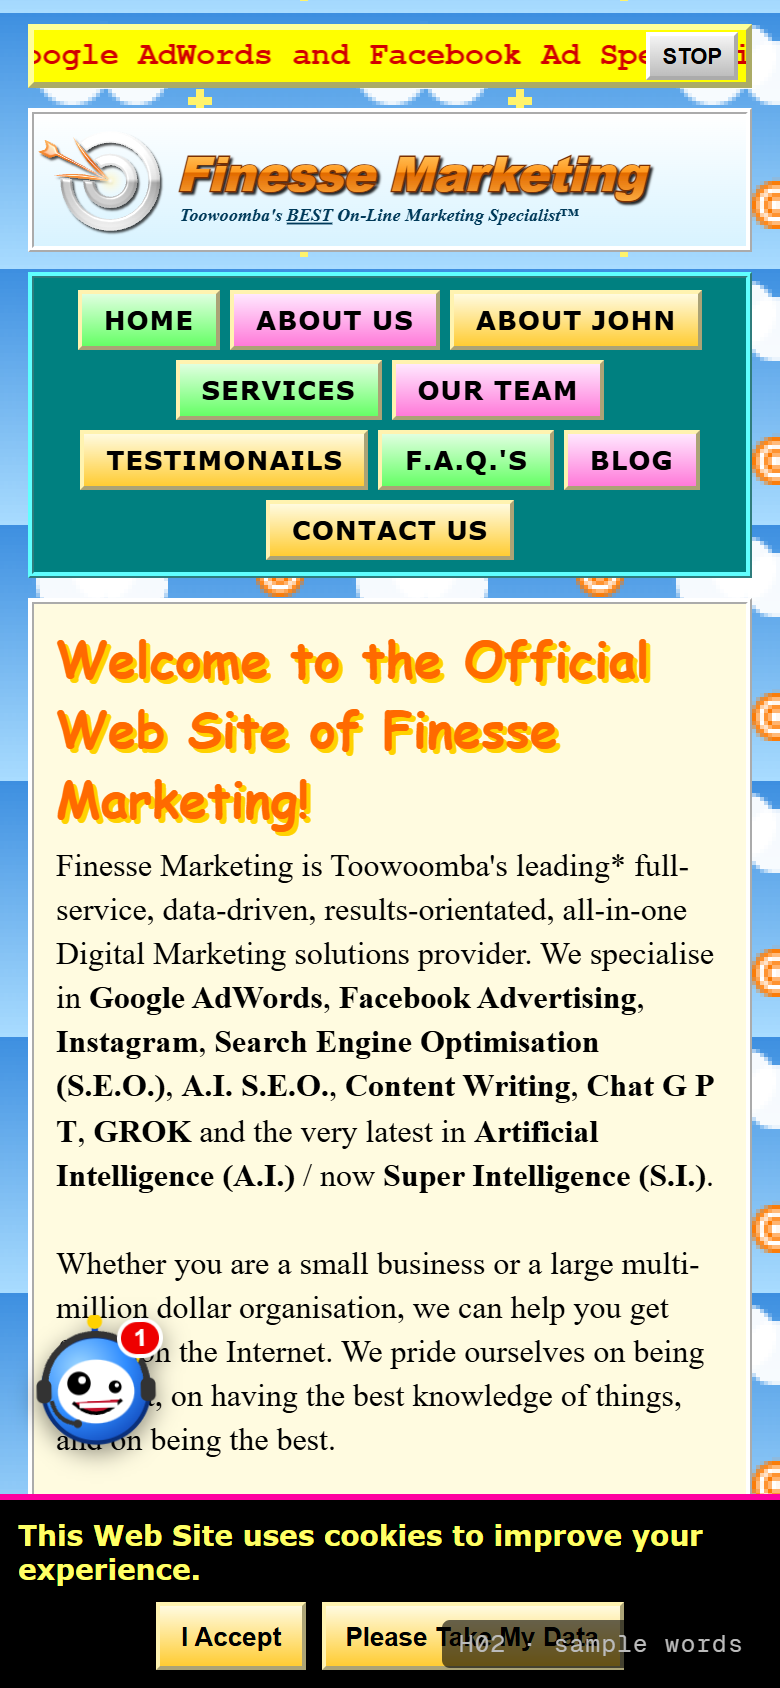
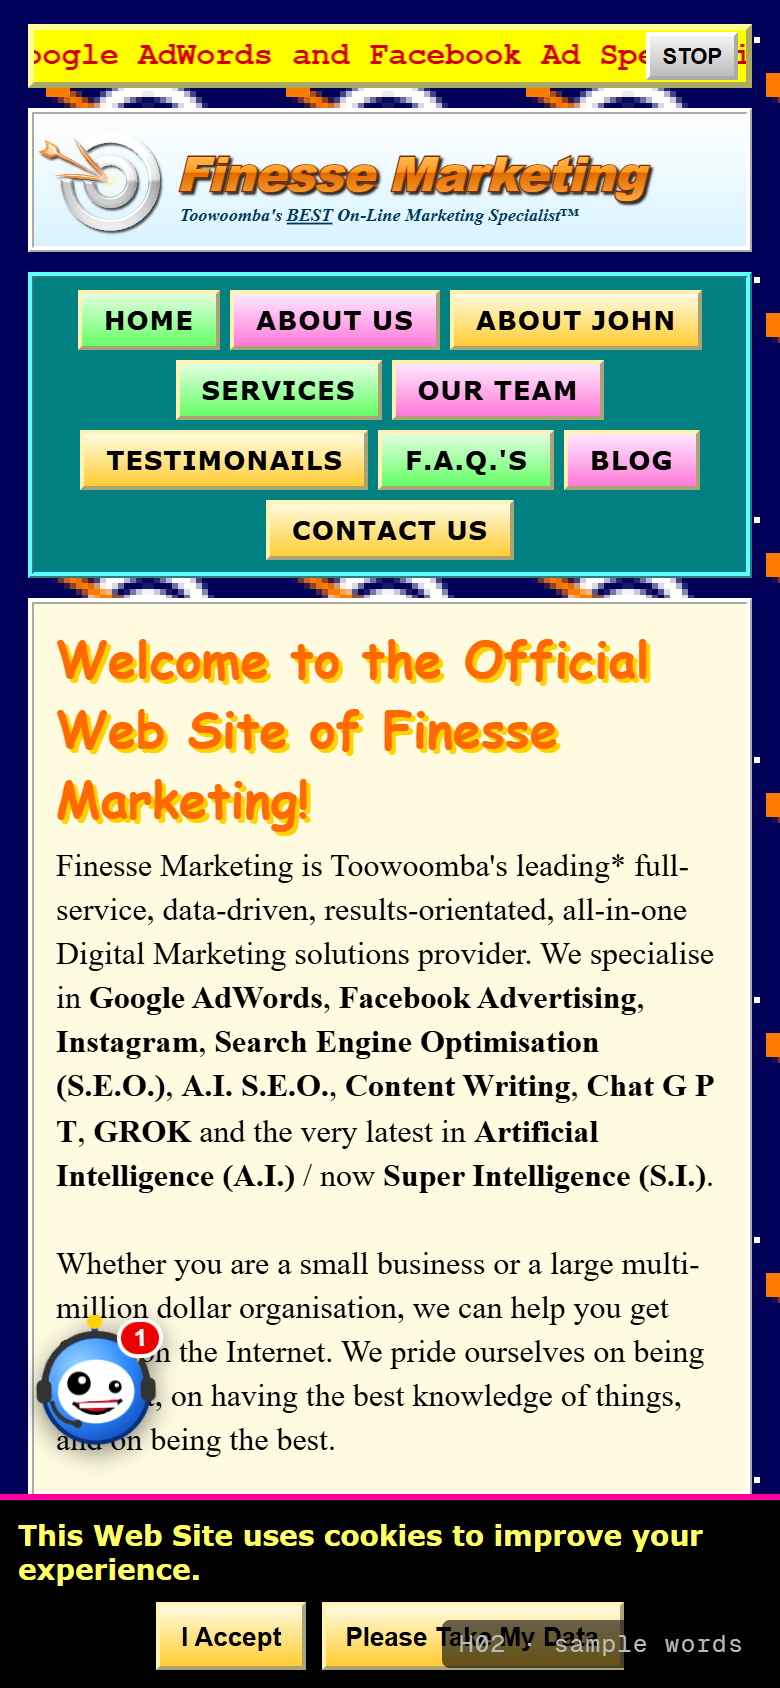
Hero ideas preview: Ninety-six with the subtler knight

Changed region(s): [[0.0, 0.0, 1.0, 0.8934]]

diff --git a/look/website-hero/ninety-six.html b/look/website-hero/ninety-six.html
@@ -174,6 +174,9 @@
 .fbwin.glitch{animation:fbshake .4s linear}
 @keyframes fbshake{20%{transform:translate(-4px,2px) skewX(3deg)}40%{transform:translate(4px,-2px)}60%{transform:translate(-3px,1px) skewX(-2deg)}80%{transform:translate(2px,0)}}
 @media (prefers-reduced-motion:reduce){.fblaunch,.fbwin.glitch{animation:none}}
+.method p{margin:6px 0}.method .for{font:bold 17px "Comic Sans MS","Comic Sans",cursive;color:#c00000}
+.pillars{columns:2;margin:4px 0 4px 22px;font:14px/1.5 Arial}
+.disc{font-size:15px!important;padding:8px 16px!important}
 .kw{grid-column:1/-1;font:12px/1.5 Arial,sans-serif;color:#2b5d7a;text-align:justify;background:rgba(255,255,255,.55);padding:6px 8px;word-spacing:1px}
 .cookie{position:sticky;bottom:0;z-index:4;display:flex;flex-wrap:wrap;gap:8px;align-items:center;justify-content:center;background:#000;color:#ffff66;font:bold 14px Verdana,Arial,sans-serif;padding:9px;border-top:3px solid #ff00a0}
 .cookie button{font:bold 13px Arial;background:linear-gradient(#fffbe0,#ffcc33);border:2px outset #fff3b0;padding:4px 10px;min-height:34px;cursor:pointer}
@@ -282,9 +285,9 @@
         <a href="#"><img data-sprite="cam" alt="" width="40" height="40">Video Production</a>
       </div>
       <div class="box"><h3>Experts At Building Websites For:</h3><p style="font:13px/1.5 Arial">Tradies &#10003;<br>Coaches &#10003;<br>Consultants &#10003;<br>Influencers &#10003;<br>Large multi-million dollar organisations &#10003;<br>Everyone &#10003;<br>Medium-sized organisations &#10003;<br>Governments &#10003;<br>Big government departments &#10003;</p></div>
-      <div class="box"><h3>Text Size</h3><p style="text-align:center"><button type="button" class="b96 fs" style="font-size:12px;cursor:pointer">A</button> <button type="button" class="b96 fs" style="font-size:16px;cursor:pointer">A</button> <button type="button" class="b96 fs" style="font-size:20px;cursor:pointer">A</button><br><span style="font:11px Arial">All three make it bigger.</span></p><p style="text-align:center;margin-top:6px"><button type="button" class="b96" id="fav" style="cursor:pointer">Add to Favourites!!</button></p><p style="text-align:center;margin-top:6px"><button type="button" class="b96" id="bgBtn" style="cursor:pointer">Change Background!!</button><br><span id="bgLabel" style="font:11px Arial">Background 1 of 4</span></p></div>
+      <div class="box"><h3>Text Size</h3><p style="text-align:center"><button type="button" class="b96 fs" style="font-size:12px;cursor:pointer">A</button> <button type="button" class="b96 fs" style="font-size:16px;cursor:pointer">A</button> <button type="button" class="b96 fs" style="font-size:20px;cursor:pointer">A</button><br><span style="font:11px Arial">All three make it bigger.</span></p><p style="text-align:center;margin-top:6px"><button type="button" class="b96" id="fav" style="cursor:pointer">Add to Favourites!!</button></p><p style="text-align:center;margin-top:6px"><button type="button" class="b96" id="bgBtn" style="cursor:pointer">Change Background!!</button><br><span id="bgLabel" style="font:11px Arial">Background 3 of 4</span></p></div>
       <div class="box svc"><h3>Useful Links</h3><a href="#">Google (the search engine)</a><a href="#">Google AdWords</a><a href="#">Facebook</a><a href="#">Twitter</a><a href="#">The Internet</a><a href="#">Our Web Site (this one)</a></div>
-      <div class="box"><h3>Toowoomba Weather</h3><p style="text-align:center;font:bold 15px Arial"><img data-sprite="sun" alt="" width="40" height="40" style="vertical-align:middle;image-rendering:pixelated"> 23&deg;C<br><span style="font-weight:normal">Partly Marketing</span></p></div>
+      <div class="box"><h3>Toowoomba Weather</h3><p style="text-align:center;font:bold 15px Arial"><img data-sprite="sun" alt="" width="40" height="40" style="vertical-align:middle;image-rendering:pixelated"> 23&deg;C<br><span style="font-weight:normal">Partly Marketing, with a chance of a chance of Networking lol</span></p></div>
       <div class="box social"><h3>Connect With Us!!</h3>
         <span style="background:#3b5998" title="Like us on Facebook. Or just like us.">Like us on Facebook!!</span>
         <span style="background:#1da1f2" title="Tweet us a Twitter">Follow us on Twitter!!</span>
@@ -298,21 +301,28 @@
         <p>Finesse Marketing is Toowoomba's leading* full-service, data-driven, results-orientated, all-in-one Digital Marketing solutions provider. We specialise in <b>Google AdWords</b>, <b>Facebook Advertising</b>, <b>Instagram</b>, <b>Search Engine Optimisation (S.E.O.)</b>, <b>A.I. S.E.O.</b>, <b>Content Writing</b>, <b>Chat G P T</b>, <b>GROK</b> and the very latest in <b>Artificial Intelligence (A.I.)</b> / now <b>Super Intelligence (S.I.)</b>.<br><br>Whether you are a small business or a large multi-million dollar organisation, we can help you get found on the Internet. We pride ourselves on being the best, on having the best knowledge of things, and on being the best.<br><br>Our proven, all-in-one <b>Growth Funnel System&#8482;</b> captures your leads, nurtures your leads and converts your leads into a pipeline of results-driven Results, to get your business to <b><u>Number One on Google at all times</u></b>*. <b><u>CONTACT US TODAY TO TAKE YOUR BUSINESS TO THE NEXT LEVEL!!</u></b> And then the level after that!!<br><br>Probably the hardest-working Digital Marketing company in Toowoomba.* Please browse our Web Site and click with confidence!!</p>
         <p class="slogan">Marketing... the Finesse way!!!</p></div>
       <div class="box"><h3>Our Proven 3-Step Process</h3><ol class="steps"><li><b>Step 1:</b> Funnel</li><li><b>Step 2:</b> Grow Your Funnel</li><li><b>Step 3:</b> Results!!</li><li><b>Step 4:</b> Retention</li><li><b>Step 5:</b> Re-Funnel the Retention</li><li><b>Step 3b:</b> Synergy (see Step 2)</li><li><b>Step 0:</b> Awareness (do this first)</li></ol><p style="font:12px Arial;text-align:center">All steps are proven.</p></div>
+      <div class="box method"><h3>The Finesse Method&#169;</h3>
+        <p class="for">For Founders who are ready for <b>MORE</b>. More leads. More synergy. More time freedom. More <b>MORE</b>.</p>
+        <p>After a decade of impacting over 3,815 businesses across 1 country (Australia), this is what I have learnt: <b>Marketing</b>.</p>
+        <p>The Finesse Method&#169; is built on our proprietary <b>14 Core Pillars</b>:</p>
+        <ol class="pillars"><li>Mindset</li><li>Mindset (Advanced)</li><li>Funnels</li><li>Synergy</li><li>Time Freedom</li><li>Manifesting</li><li>Google AdWords</li><li>The Hustle</li><li>The Grind</li><li>The Hustle (again)</li><li>Vibes</li><li>Data</li><li>Founder Energy</li><li>Pillars</li></ol>
+        <p>If you are reading this, you are already reading this. That is the first step.</p>
+        <p style="text-align:center"><a href="#" class="b96 disc">Book a FREE Discovery Call!!</a></p></div>
       <div class="box"><h3>What's New? <span class="new">NEW!</span></h3><ul class="news">
-        <li>17-11-2026: We have updated our Web Site. Can you spot the change? (It is this sentence.)</li>
-        <li>16-11-2026: John is now a <b>GROK</b> Specialist.</li>
-        <li>15-11-2026: <b>Stay tuned!!</b> Sign up to find out when Episode 1 of our new daily Podcast drops: <i>What To Look For When Buying An NFT</i>. Exploring all things NFT, every day.</li>
-        <li>13-11-2026: New <b>A.I.</b> packages now available!! Ask us about A.I. today!!</li>
-        <li>12-11-2026: Our Head of A.I. has been promoted to <b>Senior</b> Head of A.I. Congratulations.</li>
-        <li>11-11-2026: <b>S.I.</b> is now here. We will only be referring to A.I. as S.I. from here on out.</li>
-        <li>10-11-2026: We now set up <b>Instagram</b> accounts!! Have you heard? Instagram is hot right now. Get on board now!!</li>
-        <li>08-11-2026: We are now seeking shout-outs on <b>LinkedIn</b>!! Please tag us in a post about Synergy.</li>
-        <li>07-11-2026: We now offer <b>Professional Graphic Design</b> services!! Custom images from only $30 an image. Get a custom image for your loved one this Christmas. Orders open now!!</li>
+        <li>17-11-2026: We have updated our Web Site . Can you spot the change ?? (It is this sentence)</li>
+        <li>16-11-2026: John is now a <b>GROK</b> Specialist!!!</li>
+        <li>15-11-2026: <b>Stay tuned!!</b> sign up to find out when Episode 1 of our new daily Podcast drops,, <i>What To Look For When Buying An NFT</i> . Exploring all things NFT, every day</li>
+        <li>13-11-2026: New <b>A.I.</b> packages now available !! Ask us about A.I today!!</li>
+        <li>12-11-2026: Our Head of A.I has been promoted to <b>Senior</b> Head of A.I.. Congratulations</li>
+        <li>11-11-2026: <b>S.I.</b> is now here.We will only be referring to A.I. as S.I. from here on out</li>
+        <li>10-11-2026: We now set up <b>Instagram</b> account's!! have you heard?? Instagram is hot right now. Get on board now!!!</li>
+        <li>08-11-2026: We are now seeking shout-out's on <b>LinkedIn</b>!! please tag us in a post about Synergy</li>
+        <li>07-11-2026: We now offer <b>Professional Graphic Design</b> services!! Custom image's from only $30 an image .Get a custom image for your loved one this Xmas!!Orders open now</li>
         <li>06-11-2026: John has upgraded to a paid <b>Chat G P T</b> plan.</li>
-        <li>05-11-2026: We now use 14 different A.I. tools to write a single sentence. This was one of them.</li>
-        <li>03-11-2026: Our A.I. Agent now has its own A.I. Agent. They are both very busy.</li>
-        <li>02-11-2026: We now use an A.I. note-taker in every meeting. Last Tuesday it was the only one who turned up.</li>
-        <li>01-11-2026: All our video and 3D animation now comes from only the finest production houses in the Northern Hemisphere.</li></ul></div>
+        <li>05-11-2026: We now use 14 different A.I tools to write a single sentence, This was one of them.</li>
+        <li>03-11-2026: Our A.I. Agent now has it's own A.I. Agent. They are both very busy</li>
+        <li>02-11-2026: We now use an A.I. note-taker in every meeting.. Last Tuesday it was the only one who turned up</li>
+        <li>01-11-2026: All our video and 3D animation now comes from only the finest production houses in the Northern Hemisphere !</li></ul></div>
       <div class="rule"></div>
       <div class="box"><h3>Why Choose Finesse Marketing?</h3><ul class="why">
         <li>We are passionate about your business</li>
@@ -326,21 +336,20 @@
         <div><img data-sprite="john" alt="" width="72" height="90">John Hewitt<br><b>Managing Director</b></div>
         <div><img data-sprite="john" alt="" width="72" height="90">John Hewitt<br><b>Head of A.I./S.I.</b></div>
         <div><img data-sprite="john" alt="" width="72" height="90" title="John Hewitt (centre, left and right)">John Hewitt<br><b>Owner/Founder</b></div></div>
-        <p style="text-align:center;font:13px Arial;margin-top:8px"><b>Employee of the Month:</b> John Hewitt (47 months running). "A real team player," says John Hewitt.<br>Last Friday the whole team did a trust fall. We do not recommend it for teams of one.</p></div>
+        <p style="text-align:center;font:13px Arial;margin-top:8px">Last Friday the whole team did a trust fall. We do not recommend it for teams of one.</p></div>
       <div class="box rpg"><h3>John's Stats</h3>
-        <div class="menu"><div class="kcol"><figure class="slop"><img src="assets/slop_knight.webp" alt="A.I. artwork of John Hewitt as a heroic knight" width="136" height="204" title="Artist's impression (A.I.)"><figcaption>Artist's impression (A.I.)</figcaption></figure><img data-sprite="knight" alt="Pixel art of John Hewitt as a knight with a bullseye shield" width="136" height="192" title="John Hewitt, Marketing Knight (Level 99)"></div>
-        <div class="st"><p class="nm">JOHN <span>LV 99</span></p><p class="cl">Class: Marketing Knight</p><p>HP 9999/9999 &nbsp; MP 999/999</p>
+        <div class="menu"><div class="kcol"><figure class="slop"><img src="assets/slop_knight.webp" alt="A.I. artwork of John Hewitt as a heroic knight" width="136" height="204" title="Artist's impression (A.I.)"><figcaption>Artist's impression (A.I.)</figcaption></figure><img data-sprite="knight" alt="Pixel art of John Hewitt as a knight with a bullseye shield" width="136" height="192" title="John Hewitt, Senior Strategist / Marketing Lord (Level 99)"></div>
+        <div class="st"><p class="nm">JOHN <span>LV 99</span></p><p class="cl">Class: Senior Strategist / Marketing Lord</p><p>HP 9999/9999 &nbsp; MP 999/999</p>
         <p class="sec">BASE STATS</p>
         <ul class="base"><li>Strength<i class="over"></i>102</li><li>Synergy<i></i>100</li><li>Humility<i></i>100</li><li>A.I./S.I.<i></i>100</li><li>Hustle<i></i>100</li><li>Charisma<i></i>100</li><li>Vision<i></i>100</li></ul>
         <p class="sec">SUB-STATS</p>
         <ul class="sub"><li>Google AdWords<i></i>100</li><li>S.E.O.<i></i>100</li><li>Graphic Design<i></i>100</li><li>Web Design<i></i>100</li><li>Video Design<i></i>100</li><li>Business Design<i></i>100</li><li>Business Advice<i></i>100</li><li>Business Coaching<i></i>100</li><li>Life Coaching<i></i>100</li><li>Mindset Coaching<i></i>100</li><li>Copywriting<i></i>100</li><li>Content Writing<i></i>100</li><li>Funnels<i></i>100</li><li>Thought Leadership<i></i>100</li><li>Personal Branding<i></i>100</li><li>Networking<i></i>100</li><li>Crypto<i></i>100</li><li>Manifesting<i></i>100</li><li>GROK<i></i>100</li><li>Chat G.P.T.<i></i>100</li></ul>
         </div></div><p class="tip">&#128073; <b>TIP:</b> Did you know? John Hewitt is the Founder and Owner of Finnese Marketing!!</p></div>
       <div class="box testi"><h3>Testimonials</h3>
-        <p>&#8220;Very professional. He wore a collared shirt.&#8221;<br><b>~ Westbrook Thursday Night Trivia Team (Quiz Khalifa)</b></p>
         <p>&#8220;We asked for a logo, a website and a marketing strategy. We received a Funnel. We are still not sure what it does, but it is ours.&#8221;<br><b>~ Rangeville Ladies Croquet Auxiliary</b></p>
         <p>&#8220;He explained Google AdWords to us for two hours. We still do not know what it is, but apparently we are Number One at certain times on certain devices.&#8221;<br><b>~ Toowoomba Grill Masters Guild (Saturday Tongs Division)</b></p>
-        <p>&#8220;He said we would be Number One on Google. We searched our own name and there we were.&#8221;<br><b>~ Mount Mollymook Pony Club</b></p>
-        <p>&#8220;Our raffle has never been more data-driven.&#8221;<br><b>~ Mount Mollymook Bowls &amp; Raffle Club</b></p></div>
+        <p>&#8220;He said we would be Number One on Google. We searched our own name and there we were.&#8221;<br><b>~ Lower Range Pony &amp; Hobby Horse Club</b></p>
+        <p>&#8220;Our raffle has never been more data-driven.&#8221;<br><b>~ East Side Bowls &amp; Raffle Club</b></p></div>
       <div class="box"><h3>Our Values</h3><p class="mission" style="font-style:normal;font-weight:bold">Integrity. Excellence. Integrity (it is that important). Synergy. Values.<br><span style="font-weight:normal;font-size:14px">We value our Values. It's as simple as that.<br>I'm done explaining myself.</span></p></div>
       <div class="box rant"><h3>A Message From John: Why We Will NEVER Use A.I. Slop</h3>
         <p class="gpt">Certainly! Here is a heartfelt, authentic rant about A.I. slop for your business website:</p>
@@ -466,8 +475,8 @@
     sun:['.....y......','..y..y..y...','...yyyyy....','..yyyyyyy...','yyyyyoyyyyy.','..yyyyyyy...','...yyyyy....','..y..y..y...','.....y......','............','............','............'],
     chat:['............','.bbbbbbbbbb.','bwwwwwwwwwwb','bwwwwwwwwwwb','bwkwwkwwkwwb','bwwwwwwwwwwb','bwwwwwwwwwwb','.bbbwbbbbbb.','...bwb......','...bb.......','............','............'],
     brain:['............','...pp.pp....','..pppppppp..','.pppwpppppp.','.ppppppwppp.','.pwpppppppp.','.ppppppppppp','..pppwppppp.','...pppppp...','.....pp.....','.....pp.....','............'],
-    knight:['..........oo.....','.........ooo.....','........oo.......','.......kkkkkk....','......kgwggggk...','......kggggggk...','......kyyyyyyk...','.....hhsssssshh..','.....hhskssskhh..','.....hhsssssshh..','.....hhssrrsshh..','......hksssskh...','..kkk.hkkkkkh..c.','.kwoowkgwgggk..c.','.kowwokgggggggkc.','.kowowkggyggggkc.','.kowwokgggggggkyy','.kwoowkgggggggk.y','..kkk.kyyyyyyyk..','......kdddkdddk..','......kgggkgggk..','......kgggkgggk..','......knnnknnnk..','.....knnnk.knnnk.'],
-    john:['....hhhhhh....','...hhhhhhhh...','...hssssssh...','...ssssssss...','...sksssskss..','...ssssssss...','....ssrrss....','.....ssss.....','...dddssddd...','..dddddddddd..','.dddddwwdddddd','.ddddddwddddd.','.dddddddddddd.','.dddddddddddd.','.dddddddddddd.','.dddddddddddd.']
+    knight:['..........oo.....','.........ooo.....','........oo.......','.......kkkkkk....','......kgwggggk...','......kggggggk...','......kyyyyyyk...','.....hhsssssshh..','.....hhskssskhh..','.....hhsssssshh..','.....hhssnnsshh..','......hksssskh...','..kkk.hkkkkkh..c.','.kwoowkgwgggk..c.','.kowwokgggggggkc.','.kowowkggyggggkc.','.kowwokgggggggkyy','.kwoowkgggggggk.y','..kkk.kyyyyyyyk..','......kdddkdddk..','......kgggkgggk..','......kgggkgggk..','......knnnknnnk..','.....knnnk.knnnk.'],
+    john:['....hhhhhh....','...hhhhhhhh...','..hhsssssshh..','..hssssssssh..','..hskssssksh..','..hssssssssh..','..hhssnnsshh..','..hh.ssss.hh..','..hdddssdddh..','..dddddddddd..','.dddddwwdddddd','.ddddddwddddd.','.dddddddddddd.','.dddddddddddd.','.dddddddddddd.','.dddddddddddd.']
   };
   function sprite(name){const m=SPR[name],h=m.length,w=m[0].length,c=document.createElement('canvas');c.width=w;c.height=h;const g=c.getContext('2d');
     for(let y=0;y<h;y++)for(let x=0;x<w;x++){const ch=m[y][x]||'.';if(ch!=='.'){g.fillStyle=PAL[ch];g.fillRect(x,y,1,1)}}return c.toDataURL()}
@@ -487,15 +496,15 @@
   BG.push(()=>{const c=document.createElement('canvas');c.width=24;c.height=32;const g=c.getContext('2d');const gr=g.createLinearGradient(0,0,0,32);gr.addColorStop(0,'#200000');gr.addColorStop(.45,'#a00000');gr.addColorStop(.75,'#ff6a00');gr.addColorStop(1,'#ffe066');g.fillStyle=gr;g.fillRect(0,0,24,32);
     g.fillStyle='#200000';[[0,0,6,14],[8,0,5,9],[15,0,6,16],[21,0,3,11]].forEach(([x,y,w,h])=>{g.beginPath();g.moveTo(x,y);g.lineTo(x+w,y);g.lineTo(x+w/2,y+h);g.fill()});return [c.toDataURL(),'72px 96px']});
   let bgN=0;const setBg=n=>{bgN=n%BG.length;const [u,sz]=BG[bgN]();old.style.backgroundImage=`url(${u})`;old.style.backgroundSize=sz;const l=document.getElementById('bgLabel');if(l)l.textContent=`Background ${bgN+1} of ${BG.length}`};
-  setBg(0);
+  setBg(2);
   /* ---------- counter: thousands, not millions ---------- */
   const led=document.getElementById('led');const visitor=3814+Math.floor(Math.random()*3);
   led.innerHTML=String(visitor).padStart(7,'0').split('').map(c=>'<i>'+c+'</i>').join('');
   document.getElementById('prizeNo').textContent=(visitor+1).toLocaleString('en-AU')+'th';
   /* ---------- links do nothing in the demo (live site: real service pages) ---------- */
   const jumpTo=()=>{const bx=[...old.querySelectorAll('.box,.cta96,.rainbow,.kw')];let t,top,n=0;do{t=bx[Math.floor(Math.random()*bx.length)];top=t.getBoundingClientRect().top+old.scrollTop-80;n++}while(n<8&&Math.abs(top-old.scrollTop)<300);old.scrollTo({top:Math.max(0,top),behavior:reduce?'auto':'smooth'})};
-  old.querySelectorAll('.bar96 a,.cta96,.social span,#fav').forEach(el=>{el.style.cursor='pointer';el.addEventListener('click',e=>{e.preventDefault();e.stopImmediatePropagation();jumpTo()},true)});
-  old.querySelectorAll('a[href="#"]:not(.bar96 a):not(.cta96)').forEach(a=>{let tx=0,ty=0;a.addEventListener('click',e=>{e.preventDefault();a.classList.add('bounce');const r=a.getBoundingClientRect(),bx=r.left-tx,by=r.top-ty;
+  old.querySelectorAll('.bar96 a,.cta96,.social span,#fav,.disc').forEach(el=>{el.style.cursor='pointer';el.addEventListener('click',e=>{e.preventDefault();e.stopImmediatePropagation();jumpTo()},true)});
+  old.querySelectorAll('a[href="#"]:not(.bar96 a):not(.cta96):not(.disc)').forEach(a=>{let tx=0,ty=0;a.addEventListener('click',e=>{e.preventDefault();a.classList.add('bounce');const r=a.getBoundingClientRect(),bx=r.left-tx,by=r.top-ty;
     const nx=12+Math.random()*Math.max(0,innerWidth-r.width-24),ny=70+Math.random()*Math.max(0,innerHeight-r.height-160);tx=nx-bx;ty=ny-by;a.style.transform=`translate(${tx}px,${ty}px) rotate(${(Math.random()-.5)*16}deg)`})});
   /* ---------- guestbook: demo only ---------- */
   document.getElementById('gb').addEventListener('submit',e=>{e.preventDefault();const s=document.getElementById('gbsent');s.hidden=false;s.textContent='Thank you for signing our guestbook!! (Demo: nothing was sent. On the live site this goes straight to John.)'});
@@ -508,12 +517,12 @@
   (()=>{const L=document.getElementById('fbLaunch'),W=document.getElementById('fbWin'),M=document.getElementById('fbMsgs'),F=document.getElementById('fbForm'),T=document.getElementById('fbText'),HI=document.getElementById('fbHi');
     const say=(t,c)=>{const p=document.createElement('p');p.className=c;p.textContent=t;M.appendChild(p);M.scrollTop=M.scrollHeight;return p};
     const wait=ms=>new Promise(r=>setTimeout(r,reduce?Math.min(ms,300):ms));
-    const R=["Great question!! I have forwarded it to myself.","Did you mean: Google AdWords?","As an A.I. language model, I cannot do marketing. But Finesse Marketing can!!","Sorry, I am currently at lunch.","[object Object]","undefined","Here is a picture of a funnel: [image failed to load]","Please hold. You are caller number 3,815.","I am powered by S.I. (Super Intelligence). Please type more slowly.","Error 418: I am a teapot.","Have you considered our Enterprise Synergy Suite (TM)?","Thank you for chatting with Finesse Bot. Please rate this lunch: 1 out of 5 stars."];
+    const HOUSE="Very intriguing question. What a wonderful idea. Have you spoken to John about an all-inclusive SEO package?";const R=["Did you mean: Google AdWords?","As an A.I. language model, I cannot do marketing. But Finesse Marketing can!!","Sorry, I am currently at lunch.","[object Object]","undefined","Here is a picture of a funnel: [image failed to load]","Please hold. You are caller number 3,815.","I am powered by S.I. (Super Intelligence). Please type more slowly.","Error 418: I am a teapot.","Have you considered our Enterprise Synergy Suite (TM)?","Thank you for chatting with Finesse Bot. Please rate this lunch: 1 out of 5 stars."];
     let n=0,busy=false,opened=false;
     async function bot(){busy=true;const t=say('Finesse Bot is typing...','b typing');await wait(1400+Math.random()*2600);t.remove();
       const roll=Math.random();
       if(roll<.12){say('Finesse Bot has left the chat.','sys');await wait(1200);say('Finesse Bot has joined the chat.','sys');busy=false;return}
-      const r=R[n++%R.length];
+      const r=(n++%2===0)?HOUSE:R[Math.floor(n/2)%R.length];
       if(roll<.25){W.classList.remove('glitch');void W.offsetWidth;W.classList.add('glitch');for(let k=0;k<3;k++){say(r,'b');await wait(250)}}else say(r,'b');
       busy=false}
     async function open(){W.hidden=false;HI.hidden=true;L.querySelector('.fbbadge').hidden=true;if(!opened){opened=true;say('Finesse Bot is typing...','b typing');await wait(1500);M.lastChild.remove();say('Hi!! I am Finesse Bot. How may I help you help me help you?','b')}T.focus({preventScroll:true})}
